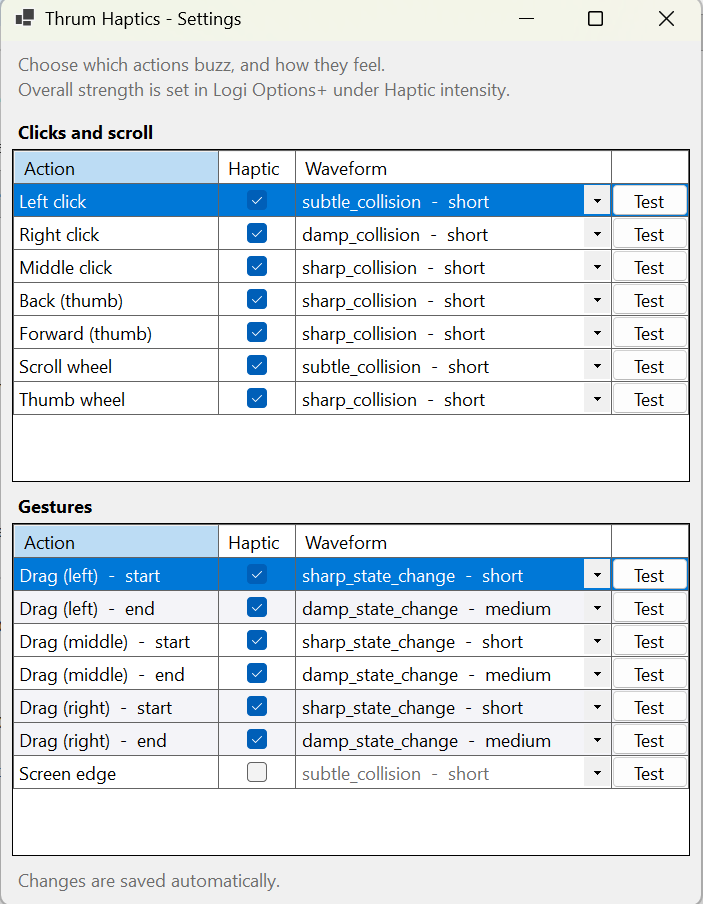
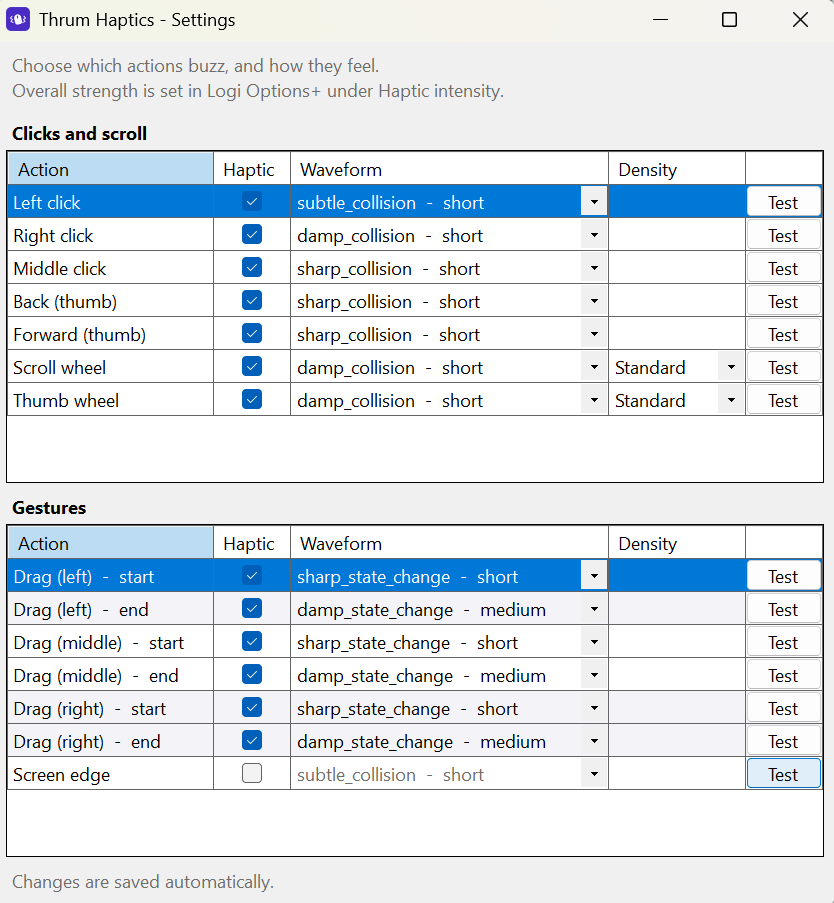
Show both settings windows in the README
The screenshot predated Density, the icon and the wider layout, so it advertised
a version that no longer exists - and it is the first thing anyone sees on the
repo page.

Both platforms now, side by side. That the two windows are visibly the same
product is the whole point of this release, and one picture carries it better
than the sentence above it does.

Changed region(s): [[0.0, 0.0, 1.0, 1.0], [0.8364, 0.0, 0.8962, 0.031]]

diff --git a/README.md b/README.md
@@ -24,8 +24,10 @@ Options+**. Needs an MX Master 4, Logi Options+, and Windows x64 or Apple
 Silicon macOS.
 
 <p align="center">
-  <img src="docs/settings-window.png" alt="Thrum Haptics settings window" width="520">
+  <img src="docs/settings-window.png" alt="Thrum Haptics settings window on Windows" width="420">
+  <img src="docs/settings-window-macos.png" alt="Thrum Haptics settings window on macOS" width="420">
 </p>
+<p align="center"><em>Windows and macOS — the same settings, native on each.</em></p>
 
 ## What it does
 
